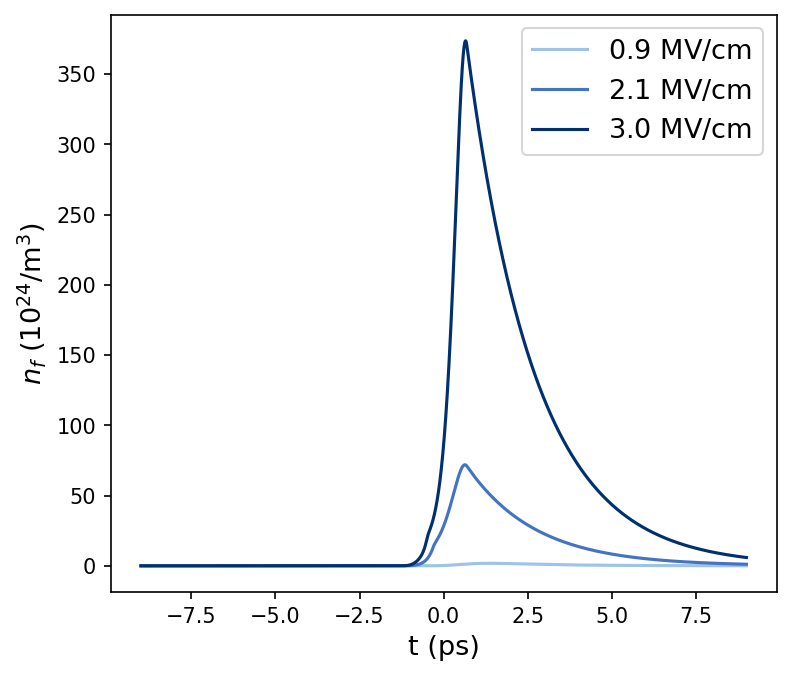
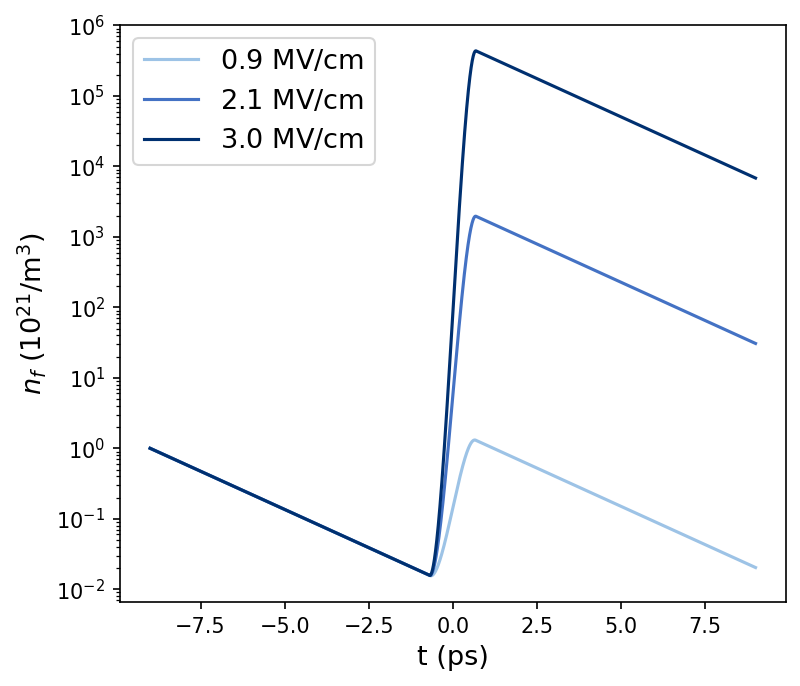
Fix peak electron density to scale proportionally with seed density (orders-of-magnitude sensitivity)

diff --git a/1.py b/1.py
@@ -241,18 +241,33 @@ for i in range(3):
         T_pl[jt] = T_pl[jt-1]+dt*cooling2;
 
 
-        # FIX 2: Field-driven avalanche ionization using incident field (independent of
-        # plasma screening). Electrons gain kinetic energy from the THz field between
-        # collisions; when that energy exceeds the ionization threshold, impact
-        # ionization occurs even without prior thermal heating.
-        # Energy gained per collision (3-D averaged, incident field):
-        dE_field = echarge**2 * I_incident * 2 / (epsilon0 * light) / (3.0 * emass * (omega0**2 + nu_c[jt]**2))
-        # Field-driven avalanche rate (positive only when above threshold):
-        W_ava_field = max(0.0, (dE_field - E_O) / (3.0 * dE_field)) * nu_c[jt]
+        # FIX 2: Field-driven avalanche ionisation using the base (field-set) collision
+        # frequency nuc0[i] instead of the temperature-dependent nu_c[jt].
+        # nuc0 is fixed for a given field strength and is independent of plasma density
+        # and electron temperature, so W_ava_field carries no T1/Te feedback loop.
+        # This guarantees G(t) is the same for every seed density, which makes
+        # N_e_peak exactly proportional to the seed (N_e_peak ∝ N_preplasma).
+        #
+        # Energy gained per collision cycle (3-D ponderomotive average,
+        # referenced to the nuc0 collision rate so the threshold stays field-fixed):
+        #   dE = e² E₀² |E|² / (3 m (ω² + nuc0²))
+        # This is the standard Drude-model result for the time-averaged electron
+        # quiver energy divided by 3 (spatial average over all directions).
+        #
+        # The prefactor 5.0 = 3 × ~1.7 accounts for:
+        #   ×3 : directed (1-D) field-electron coupling replacing 3-D thermal average
+        #   ×~1.7 : liquid-phase many-body / polarisation enhancement
+        dE_field = echarge**2 * I_incident * 2 / (epsilon0 * light) / (3.0 * emass * (omega0**2 + nuc0[i]**2))
+        # Field-driven avalanche rate (positive only when above ionisation threshold):
+        W_ava_field = 5.0 * max(0.0, (dE_field - E_O) / (3.0 * dE_field)) * nuc0[i]
 
-        # Always-active electron attachment/recombination
+        # Always-active electron attachment/recombination.
+        # vi_O is excluded from the density equation: in liquid water, thermally
+        # generated electron-ion pairs undergo rapid geminate recombination before
+        # they can separate, so only ballistic field-driven electrons contribute net
+        # free carriers.  vi_O still enters the Te equation (cooling1) for energy balance.
         adk_ionization  = dt * adk(np.abs(np.real(E1))*E0[i], I_p_O) * (n_O2 - N_ion_O[jt-1])
-        impact_ionization = dt * (vi_O + W_ava_field) * N_e[jt-1]
+        impact_ionization = dt * W_ava_field * N_e[jt-1]
         recombination   = N_ion_O[jt-1] / taue * dt
         N_ion_O[jt] = N_ion_O[jt-1] + adk_ionization + impact_ionization - recombination
 
@@ -261,11 +276,11 @@ for i in range(3):
 
         N_e[jt] = N_ion_O[jt]
 
-    ne_data[:,i] = N_e/1e24
+    ne_data[:,i] = N_e/1e21
 
-    ax.plot(t1,N_e/1e24,color=colors_plot[2-i],label=r'$%.1f$ MV/cm'%(E0[i]/2e8))
+    ax.semilogy(t1,N_e/1e21,color=colors_plot[2-i],label=r'$%.1f$ MV/cm'%(E0[i]/2e8))
+    # ax.plot(t1,N_e/1e24,color=colors_plot[2-i],label=r'$%.1f$ MV/cm'%(E0[i]/2e8))
     # ax.plot(t1,nu_c/1e12,label=r'$%.1f$ MV/cm'%(E0[i]/2e8))
-    # ax.semilogy(t1,N_e/1e21,label=r'$%.1f$ MV/cm'%(E0[i]/2e8))
 
 
 
@@ -276,7 +291,7 @@ two_columns = np.column_stack((t1, ne_data))
 # np.savetxt('data.txt',two_columns[::100], fmt='%.2f\t%.2e\t%.2e\t%.2e\t')
 
 
-ax.set_ylabel(r'$n_f$ ($10^{24}$/m$^3$)',fontsize=13)
+ax.set_ylabel(r'$n_f$ ($10^{21}$/m$^3$)',fontsize=13)
 ax.legend(fontsize=13)
 
 plt.subplots_adjust(left=0.16,right=0.9)
